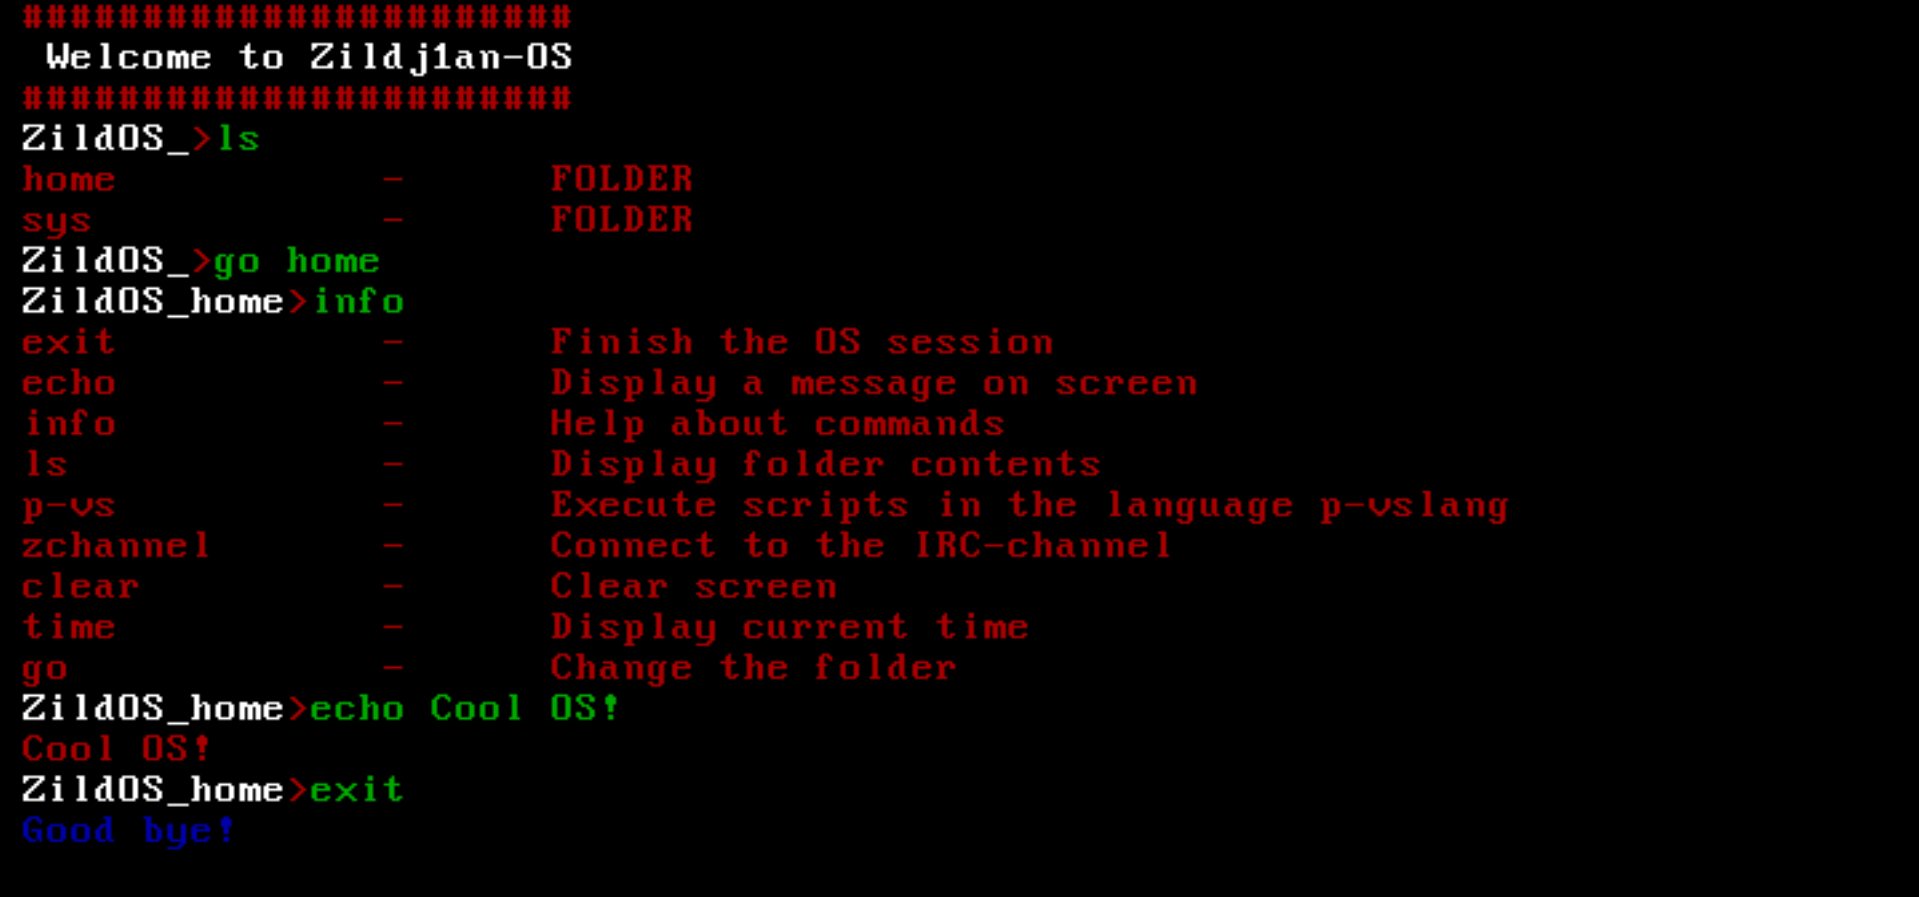
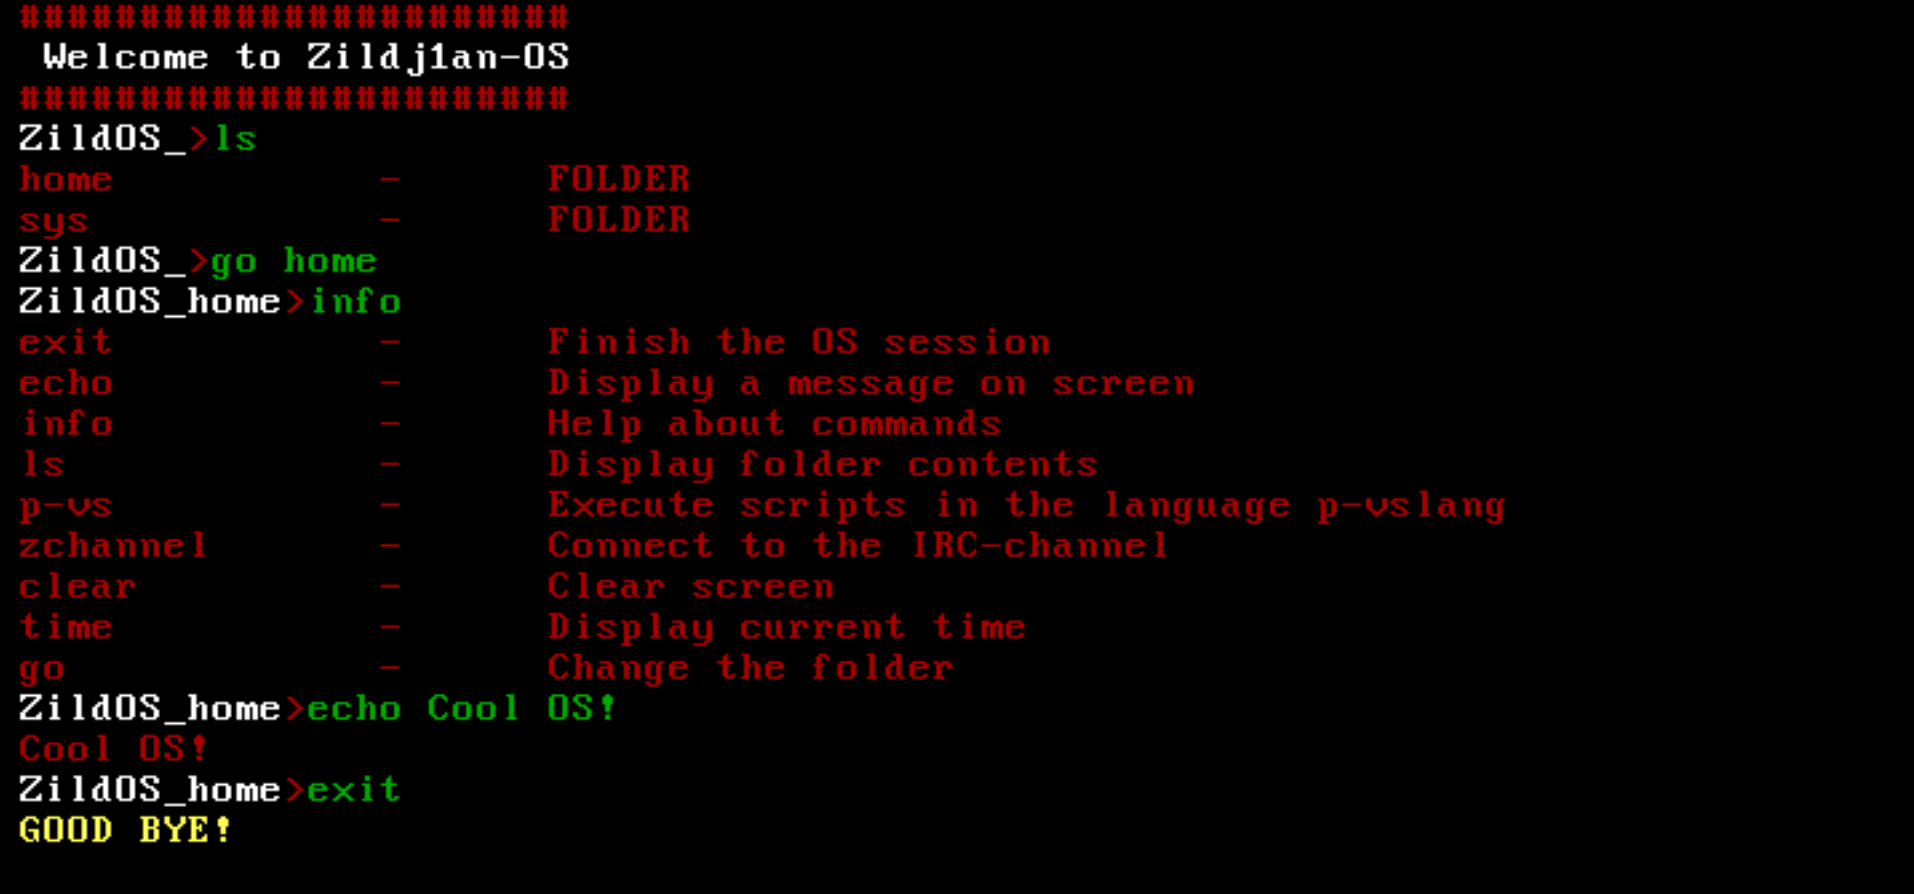
nice artwork

Changed region(s): [[0.0, 0.0, 0.8015, 0.9664], [0.2774, 0.1812, 0.3699, 0.2718]]

diff --git a/kernel/kernel.c b/kernel/kernel.c
@@ -44,7 +44,7 @@ static void inline welcome_msg(void){
 
 int main_k(void* minfo){
 
-	unsigned char exit_msg[]  = "Good bye!\n";
+	unsigned char exit_msg[]  = "GOOD BYE!\n";
 	unsigned char error_msg[] = "Memory error, exiting...\n";
         unsigned char *command;
 
@@ -72,7 +72,7 @@ int main_k(void* minfo){
 		read_I(command);
 
 		if (execute_command(command) == EXIT_COMMAND){
-			write_O((unsigned char*) &exit_msg, sizeof(exit_msg), BLUE);
+			write_O((unsigned char*) &exit_msg, sizeof(exit_msg), YELLOW);
 			stop_cursor();
 			break;
 		}

diff --git a/kernel/macros.h b/kernel/macros.h
@@ -22,12 +22,13 @@ static int CURR_FOLDER = 0;
 
 /* VGA Colors */
 #define VGA_ADDRESS 0xB8000
-#define BLACK 0
-#define BLUE  1
-#define GREEN 2
-#define RED   4
-#define BROWN 6
-#define WHITE 15
+#define BLACK  0
+#define BLUE   1
+#define GREEN  2
+#define RED    4
+#define BROWN  6
+#define YELLOW 14
+#define WHITE  15
 
 #define ROW_TEXT 25
 #define COLUMN_TEXT 80

diff --git a/kernel/io/text.h b/kernel/io/text.h
@@ -44,7 +44,7 @@ static inline UINT16 VGA_entry(unsigned char msg, COLOR color){
 static inline int invalid_color(COLOR color){
 
 	return (color != BLACK && color != BLUE && color != GREEN && color != RED
-	  && color != BROWN && color != WHITE);
+	  && color != BROWN && color != WHITE && color !=YELLOW);
 }
 
 
